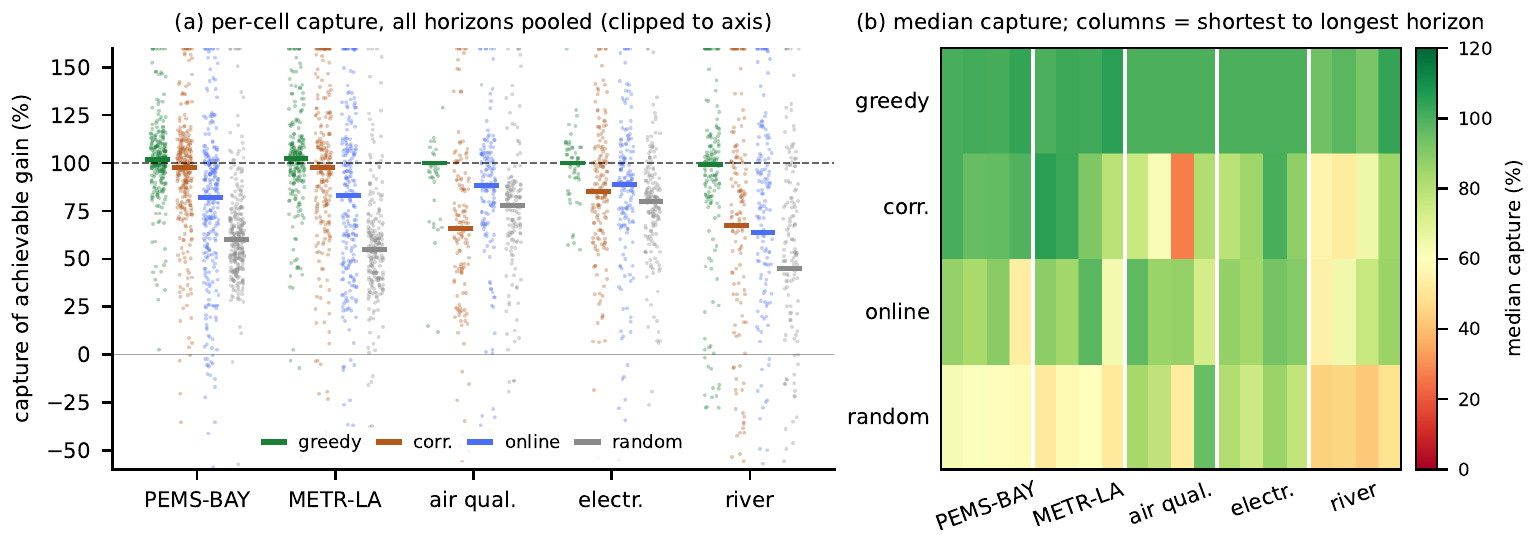
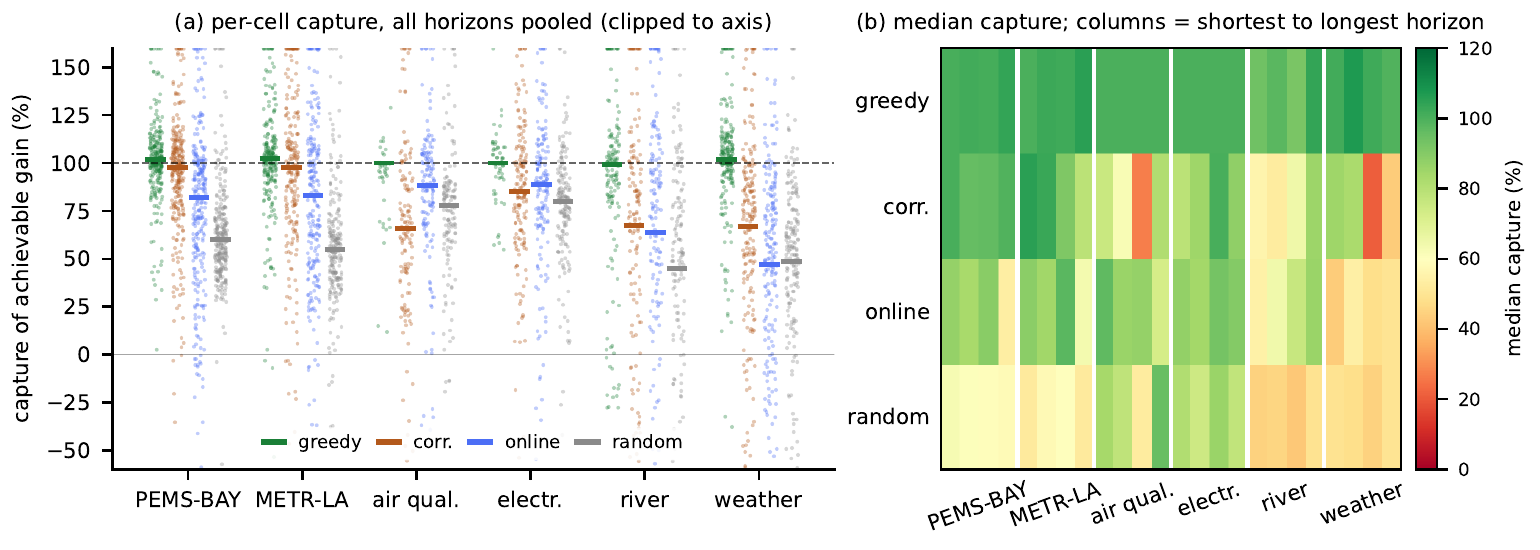
Deploy: six-domain capture figure
Claude-Session: https://claude.ai/code/session_01NT2TkBFZe5oCe3bBsRWZVN

diff --git a/research/index.html b/research/index.html
@@ -46,7 +46,7 @@ In short: swarm couples simple, identical agents; federated learning averages ma
 MMP is envelope-agnostic: SLIM, A2A, MCP or other transports can carry the blocks. It begins
       where authenticated delivery ends and semantic integration begins.
 </p> <h3 class="sub" style="margin-top:48px;" data-astro-cid-odi5jzfj>What the evidence supports</h3> <p data-astro-cid-odi5jzfj>
-The mechanisms were evaluated across five real sensor-network domains with substantially
+The mechanisms were evaluated across six real sensor-network domains with substantially
       different dependency structures, including one domain (river basins) with known physical
       upstream relationships. These experiments validate properties of decentralized observation
       exchange and local interaction policies in distributed sensing environments. They do not,
@@ -71,7 +71,7 @@ The figures previously on this page (+63.6%&ndash;86.2% over isolation, and the 
 Scored honestly, greedy forward selection with a validation window <strong data-astro-cid-odi5jzfj>saturates the achievable
       ceiling</strong>: median capture 100&ndash;105% of the exhaustive-search optimum across all five domains,
       exact at k&nbsp;=&nbsp;3 and on the 12-agent domains.
-</p> <img src="/research/fig-capture.png" alt="Per-cell capture of achievable gain across five domains: greedy selection pinned at the 100% line; correlation, online and random selectors below it" style="width:100%;max-width:860px;border-radius:8px;margin:10px 0 18px;" loading="lazy" data-astro-cid-odi5jzfj> <p data-astro-cid-odi5jzfj>
+</p> <img src="/research/fig-capture.png" alt="Per-cell capture of achievable gain across six domains: greedy selection pinned at the 100% line; correlation, online and random selectors below it" style="width:100%;max-width:860px;border-radius:8px;margin:10px 0 18px;" loading="lazy" data-astro-cid-odi5jzfj> <p data-astro-cid-odi5jzfj>
 &ldquo;Who is upstream of your future&rdquo; names an <strong data-astro-cid-odi5jzfj>equivalence class, not a list</strong>:
       on the Susquehanna, distant headwaters beat adjacent upstream gauges into the set selected at
       Conowingo. Selection drift sits below matched split-half noise floors on electricity and river.
